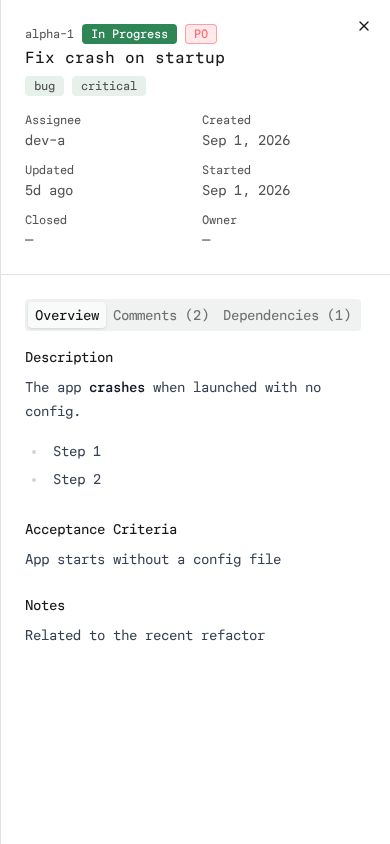
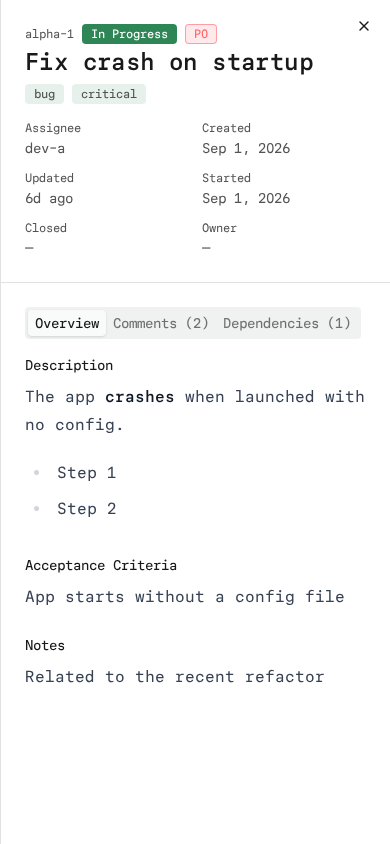
fix: align typography with the beads site

diff --git a/tests/e2e/branding.spec.ts b/tests/e2e/branding.spec.ts
@@ -30,6 +30,17 @@ for (const mode of ["light", "dark"] as const) {
     await page.evaluate(() => document.fonts.ready);
     await expect(page.locator("body")).toHaveCSS("background-color", mode === "light" ? "rgb(249, 251, 250)" : "rgb(11, 14, 14)");
     expect(await page.evaluate(() => [...document.fonts].some((font) => font.family.includes("paperMono") && font.status === "loaded"))).toBe(true);
+    await expect(page.locator("body")).toHaveCSS("font-feature-settings", '"cv02", "cv03", "cv04", "cv11"');
+    const title = page.getByRole("heading", { name: "alpha", exact: true });
+    await expect(title).toHaveCSS("font-size", "36px");
+    await expect(title).toHaveCSS("line-height", "40px");
+    await expect(title).toHaveCSS("font-weight", "600");
+    await expect(title).toHaveCSS("letter-spacing", "-0.9px");
+    const columnTitle = page.getByRole("heading", { name: "Ready", exact: true });
+    await expect(columnTitle).toHaveCSS("font-size", "24px");
+    await expect(columnTitle).toHaveCSS("line-height", "32px");
+    await expect(columnTitle).toHaveCSS("font-weight", "600");
+    await expect(columnTitle).toHaveCSS("letter-spacing", "-0.6px");
     const logo = page.getByRole("img", { name: "Beads", exact: true }).filter({ visible: true });
     await expect(logo).toHaveCount(1);
     expect(await logo.evaluate((image) => (image as HTMLImageElement).naturalWidth)).toBe(32);

diff --git a/src/components/dashboard.tsx b/src/components/dashboard.tsx
@@ -176,7 +176,7 @@ export function Dashboard() {
         <header className="flex shrink-0 flex-wrap items-center gap-2 border-b px-4 py-3 lg:gap-3">
           <SidebarTrigger />
           <Image src="/brand/beads.svg" alt="Beads" width={24} height={24} unoptimized className="md:hidden" />
-          <h1 className="min-w-0 flex-1 truncate text-sm font-medium">
+          <h1 className="min-w-0 flex-1 basis-[calc(100%-5rem)] truncate text-4xl font-semibold tracking-tight lg:basis-0">
             {selectedProject?.name ?? "View Beads"}
           </h1>
           <div className="relative order-last w-full lg:order-none lg:ml-auto lg:w-64">

diff --git a/src/components/board.tsx b/src/components/board.tsx
@@ -27,7 +27,7 @@ export function Board({ issues, readyIds, includeClosed, onSelect }: BoardProps)
         {visible.map(({ key, label }) => (
           <section key={key} className="flex w-72 flex-col gap-2">
             <header className="flex items-center gap-2 px-1">
-              <h2 className="text-sm font-medium">{label}</h2>
+              <h2 className="text-2xl font-semibold tracking-tight">{label}</h2>
               <span className="rounded-full bg-muted px-2 py-0.5 text-xs text-muted-foreground">
                 {columns[key].length}
               </span>

diff --git a/src/components/markdown.tsx b/src/components/markdown.tsx
@@ -3,7 +3,7 @@ import remarkGfm from "remark-gfm";
 
 export function Markdown({ children }: { children: string }) {
   return (
-    <div className="prose prose-sm max-w-none dark:prose-invert">
+    <div className="prose max-w-none prose-headings:font-semibold prose-headings:tracking-tight prose-h1:text-4xl prose-h1:leading-10 prose-h2:text-2xl prose-h2:leading-8 dark:prose-invert">
       <ReactMarkdown remarkPlugins={[remarkGfm]}>{children}</ReactMarkdown>
     </div>
   );

diff --git a/src/components/ui/sheet.tsx b/src/components/ui/sheet.tsx
@@ -105,7 +105,7 @@ function SheetTitle({ className, ...props }: SheetPrimitive.Title.Props) {
     <SheetPrimitive.Title
       data-slot="sheet-title"
       className={cn(
-        "font-heading text-base font-medium text-foreground",
+        "font-heading text-2xl font-semibold tracking-tight text-foreground",
         className
       )}
       {...props}

diff --git a/src/app/globals.css b/src/app/globals.css
@@ -196,5 +196,9 @@
   }
   html {
     @apply font-sans;
+    font-feature-settings: "cv02", "cv03", "cv04", "cv11";
+  }
+  code, pre {
+    font-feature-settings: normal;
   }
 }

diff --git a/public/brand/README.md b/public/brand/README.md
@@ -18,6 +18,12 @@ The live site's CSS explicitly selects Paper Mono for both body and headings
 (`--font-family-body-custom` and `--font-family-headings-custom`). Inter is
 also preloaded by Mintlify but is not the configured body/heading font.
 
+Typography follows the site's 16px/24px body baseline, 36px/40px main headings,
+and 24px/32px section headings. Headings use weight 600 and -0.025em letter
+spacing; compact dashboard controls and issue metadata retain their smaller sizes.
+The site's `cv02`, `cv03`, `cv04`, and `cv11` font-feature settings are enabled
+for UI text, with default features for code.
+
 `paper-mono.woff2` is an unchanged copy of the [live site's variable font](https://beads.gascity.com/mintlify-assets/_next/static/media/PaperMono_Variable.p.aa32f7a0.woff2),
[1 lines of base64/hex data omitted]
 It is self-hosted through `next/font/local`; no CDN requests are needed at runtime
